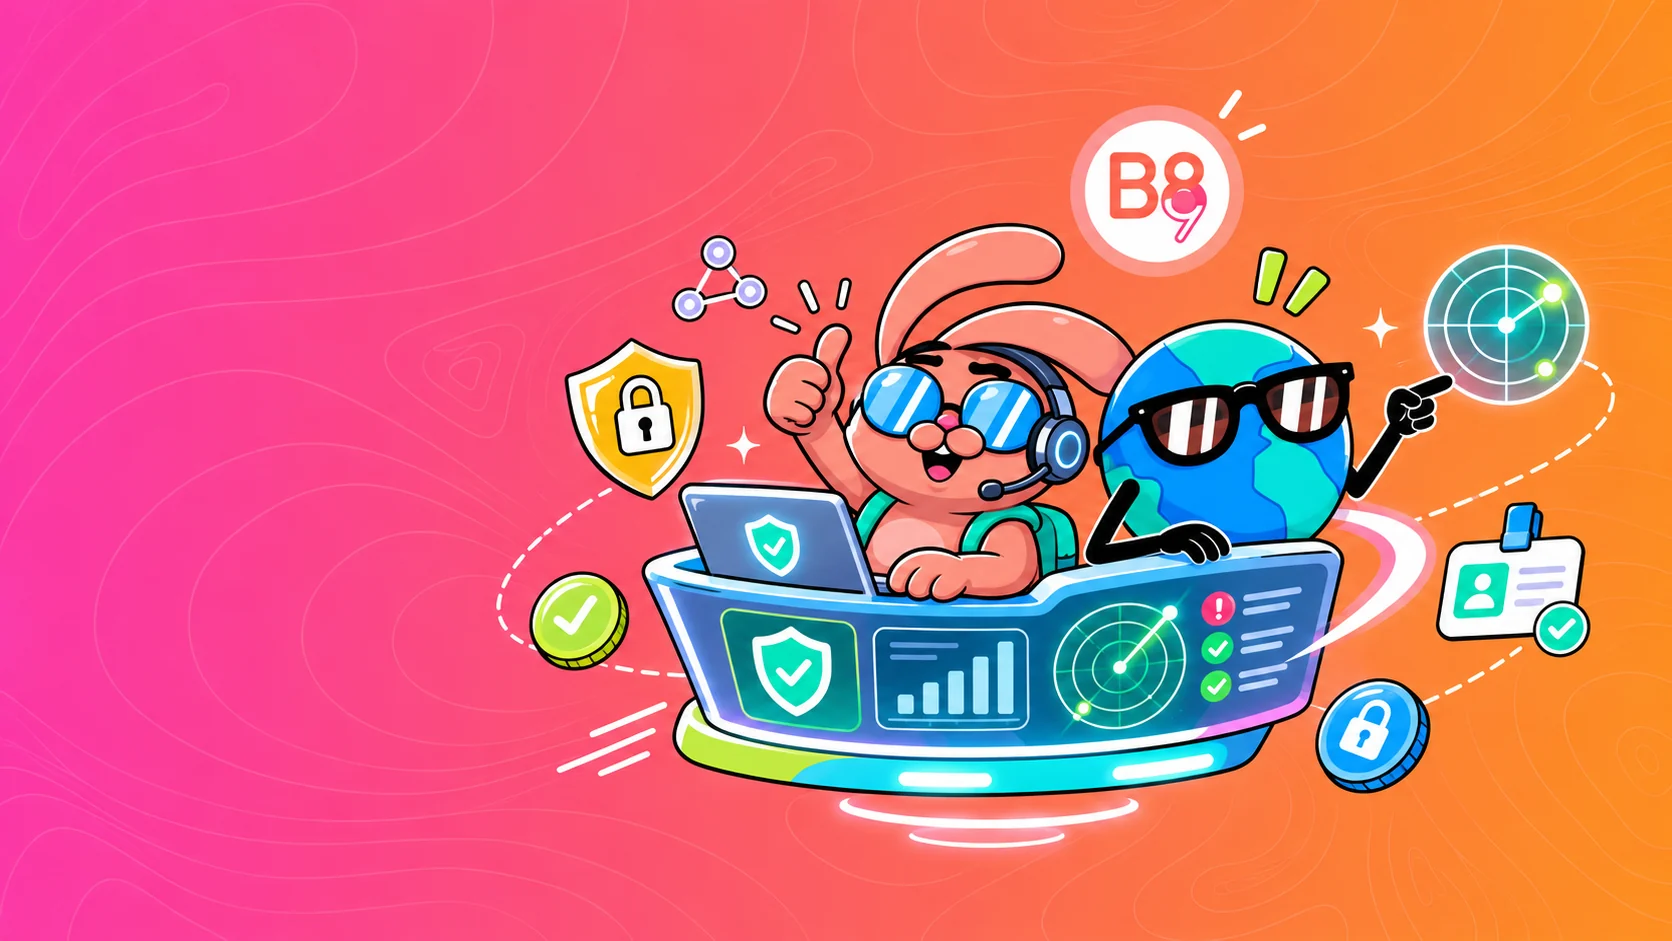
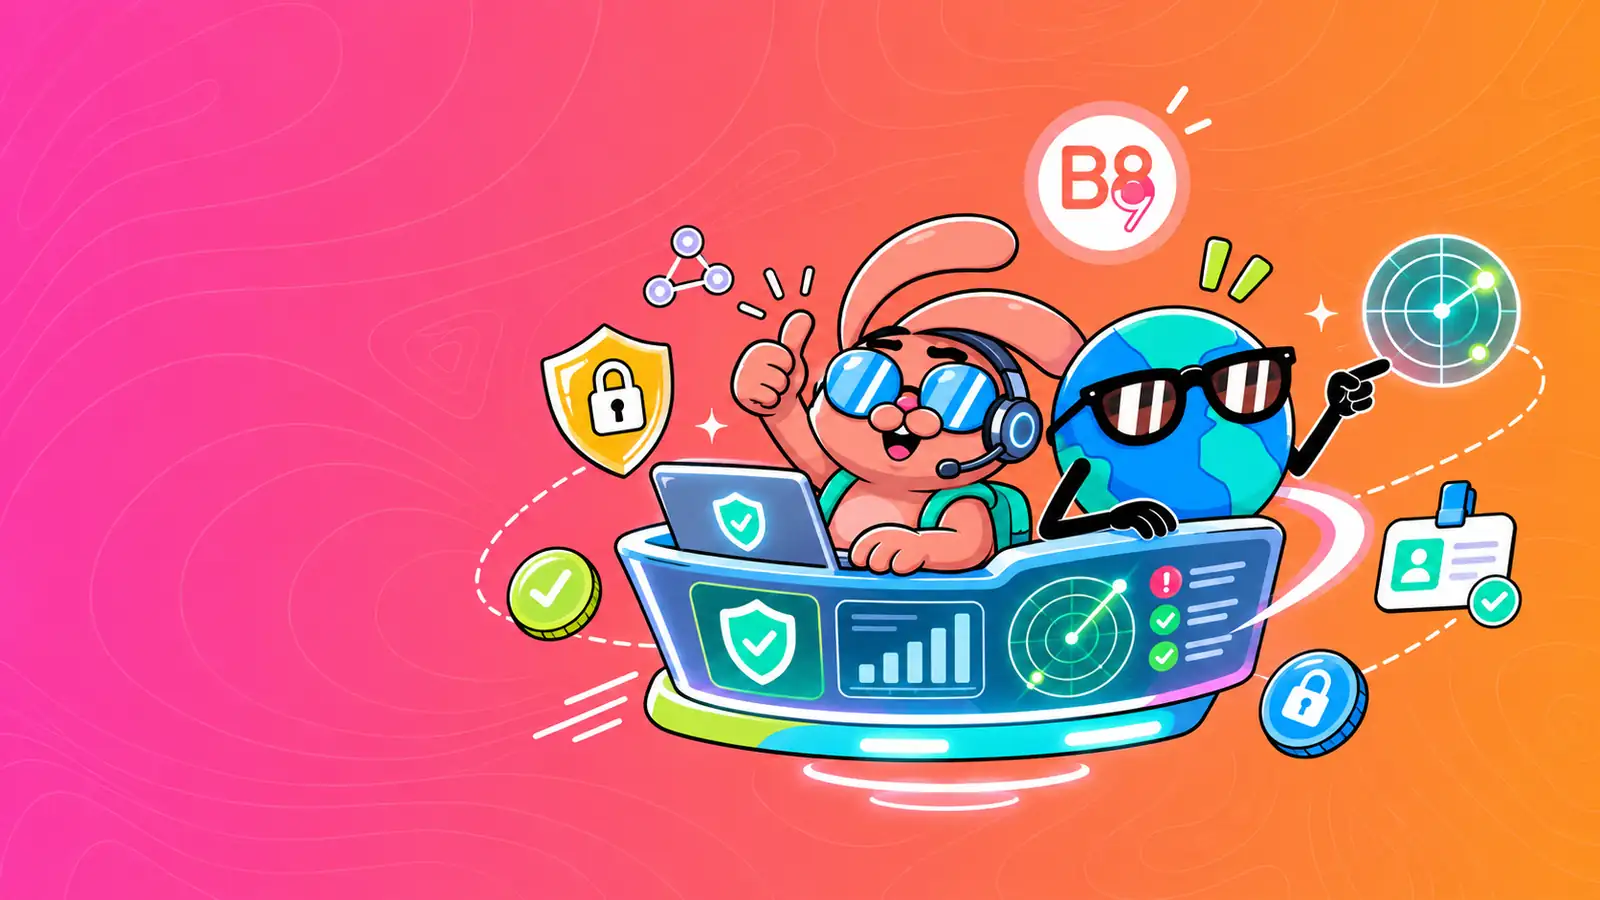
perf(login): optimize hero illustration to WebP (2.1 MB PNG -> 71 KB, 33 KB mobile)
Responsive variants plus media-gated preload.

diff --git a/wazuh/dashboard/plugins/b89_ops/server/login_page.ts b/wazuh/dashboard/plugins/b89_ops/server/login_page.ts
@@ -324,6 +324,8 @@ export function renderLoginPage(options: LoginPageOptions): string {
 <link rel="icon" type="image/png" sizes="32x32" href="${ui}/favicons/favicon-32x32.png">
 <link rel="apple-touch-icon" sizes="180x180" href="${ui}/favicons/apple-touch-icon.png">
 <link rel="manifest" href="${ui}/favicons/manifest.json">
+<link rel="preload" as="image" type="image/webp" href="${brand}/b89_login_hero.webp" media="(min-width: 1001px)">
+<link rel="preload" as="image" type="image/webp" href="${brand}/b89_login_hero_sm.webp" media="(max-width: 1000px)">
 <title>Iniciar sesión · B89 SOC</title>
 <style nonce="${nonce}">${css}</style>
 </head>

diff --git a/wazuh/dashboard/plugins/b89_ops/server/login_theme.ts b/wazuh/dashboard/plugins/b89_ops/server/login_theme.ts
@@ -83,7 +83,7 @@ img,svg{display:block;max-width:100%}
 
 @media (max-width:1000px){
   .login-shell{grid-template-columns:minmax(0,1fr);grid-template-rows:auto 1fr}
-  .login-hero{order:-1;min-height:220px;background-position:66% center}
+  .login-hero{order:-1;min-height:220px;background:url(__UI__/b89_login_hero_sm.webp) 66% center/cover no-repeat,linear-gradient(115deg,var(--b89-pink),var(--b89-rose) 38%,var(--b89-orange))}
   .login-side{padding:28px 24px 32px}
 }
 @media (max-width:600px){
